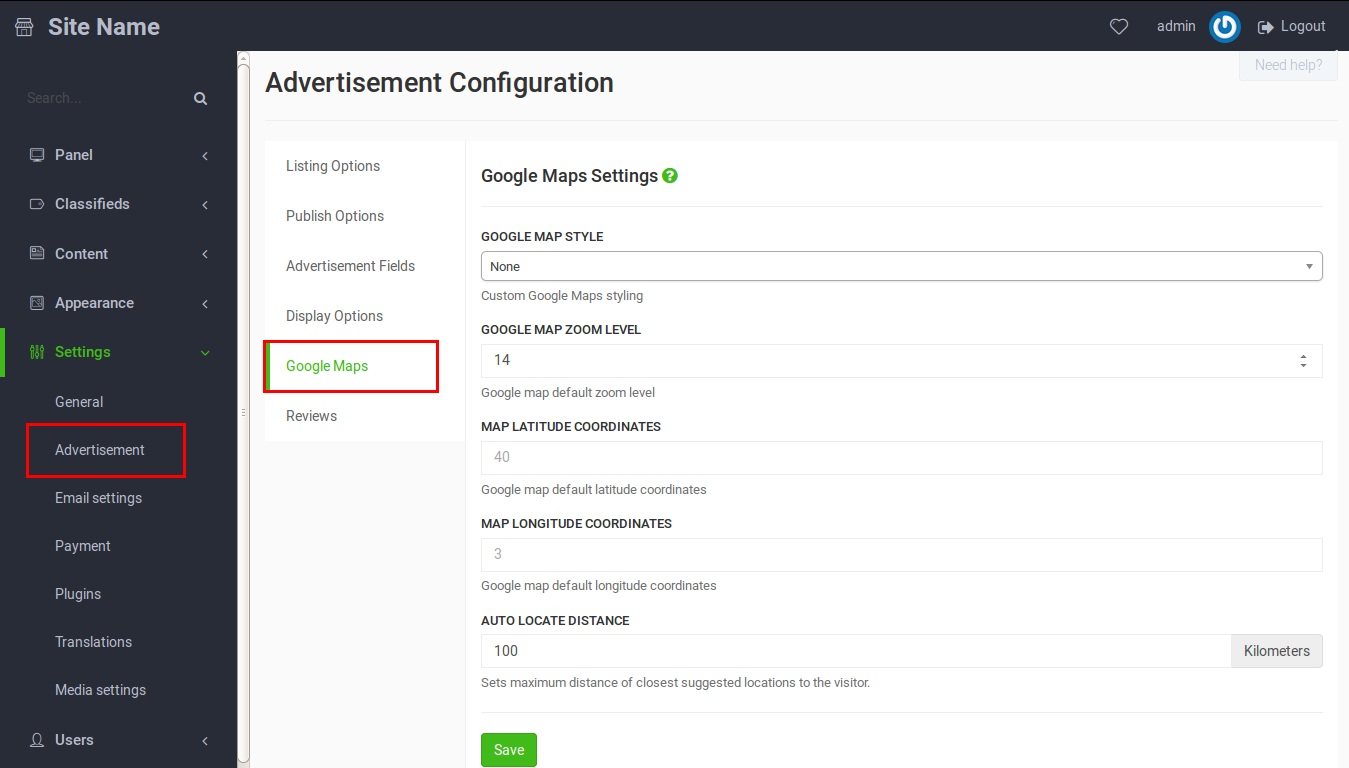
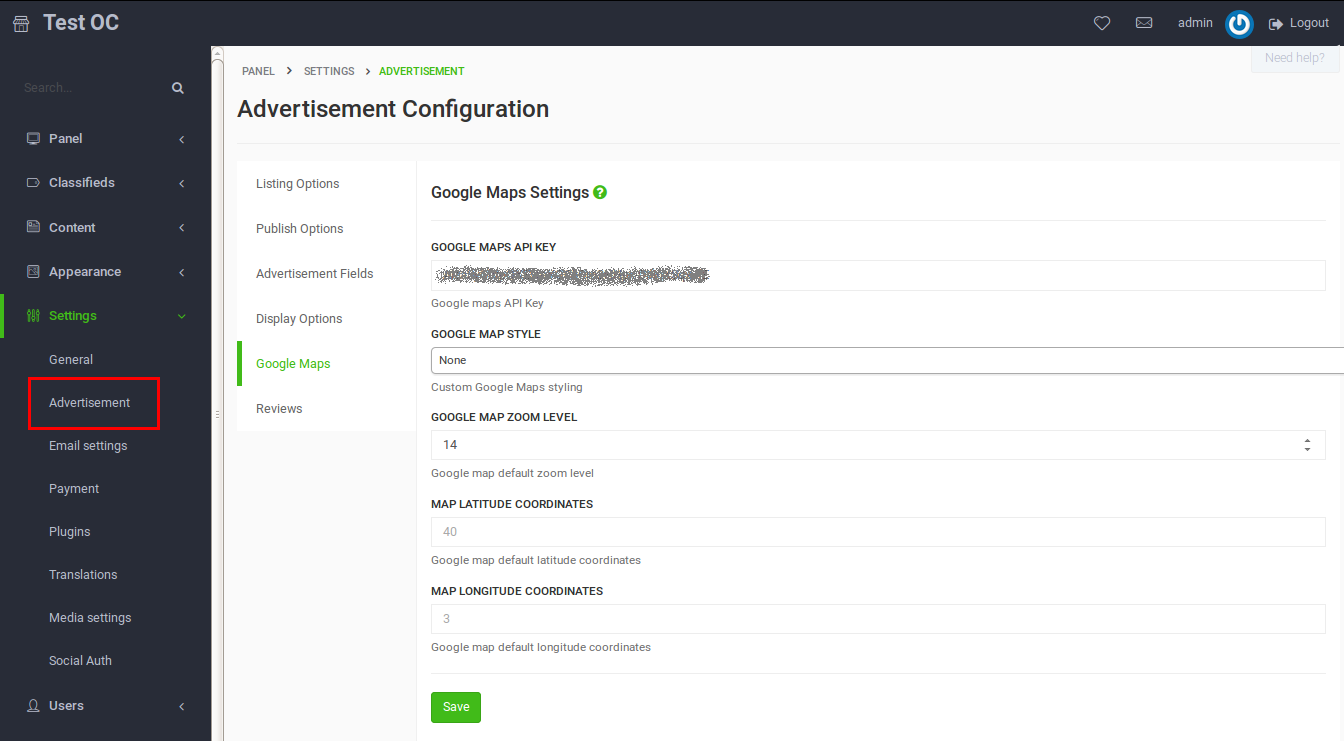
update google maps guide, add steps for api key

diff --git a/how-to-configure-Google-Map-Settings.md b/how-to-configure-Google-Map-Settings.md
@@ -9,9 +9,11 @@ If you use Google Maps on your website, users will be able to share the location
 
 Open Classifieds gives you the option to set the Google Map Zoom level and the default coordinates for Map latitude and longitude.
 
+## Configure Google Maps
+
 **Steps:**
 
-1. Go on **Panel**, **Settings** -> **Advertisement** -> **Google Map**.
+1. Go on **Panel**, **Settings** -> **Advertisement** -> **Google Maps**.
 2. Fill the fields.
 3. Click **SAVE**.
 
@@ -19,11 +21,27 @@ Open Classifieds gives you the option to set the Google Map Zoom level and the d
 ![google map settings](//docs.yclas.com/images/googlemapsettings.png)
 </a>
 
++ **Google Maps API Key**: [Get your API Key](#get-your-api-key).
 + **Google map style**: Custom Google Maps styling.
 + **Google map zoom level**: Google map default zoom level.
 + **Map latitude coordinates**: Google map default latitude coordinates.
 + **Map longitude coordinates**: Google map default longitude coordinates.
 + **Auto locate distance**: Sets maximum distance of closest suggested locations to the visitor.
+
+## Get your API Key
+
+1. Go to [this](https://console.developers.google.com/flows/enableapi?apiid=maps_backend,geocoding_backend,directions_backend,distance_matrix_backend,elevation_backend&keyType=CLIENT_SIDE&reusekey=true) page to get your API Key.
+2. Choose **Create a Project** and click **Continue**.
+3. Enter a **Name** and your website URL on **Accept requests from these HTTP referrers (web sites)** and click **Create**.
+4. Copy the API Key into your admin panel, **Settings** -> **Advertisement** -> **Google Maps** and click **Save**.
+
+<a href="//docs.yclas.com/images/google-api-key.png" class="thumbnail gallery-item" data-gallery>
+![google map settings](//docs.yclas.com/images/google-api-key.png)
+</a>
+
+<a href="//docs.yclas.com/images/google-api-key2.png" class="thumbnail gallery-item" data-gallery>
+![google map settings](//docs.yclas.com/images/google-api-key2.png)
+</a>
 
 <br>
 **Related posts:**
